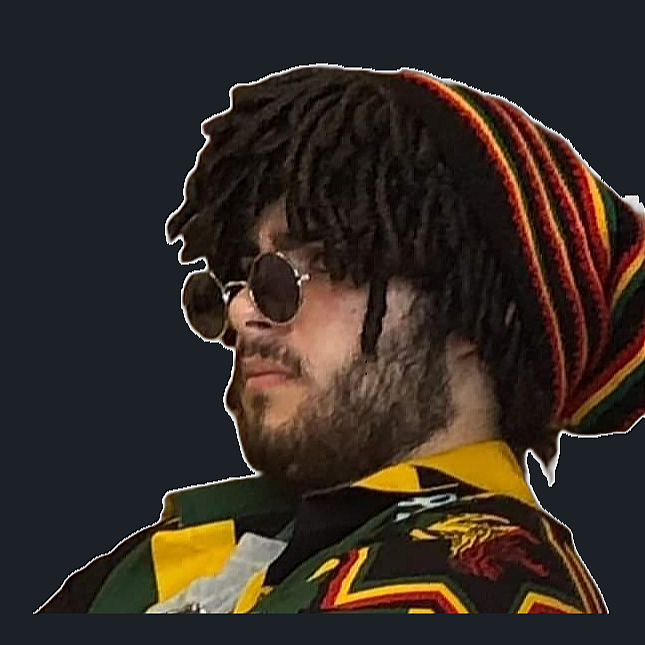
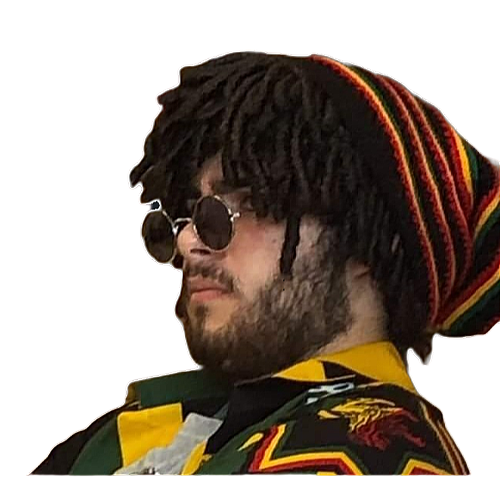
update

diff --git a/src/app/desktop/components/profile/ProfileHead.css b/src/app/desktop/components/profile/ProfileHead.css
@@ -3,4 +3,62 @@
     height: 235px;
     background-color: #163041;
     box-shadow: 0 4px 8px rgba(13, 28, 39, 0.5);
+    display: flex;
+    flex-direction: column;
+    justify-content: center;
+    align-items: center;
+}
+
+.profile-head-img {
+    width: 130px;
+    height: 130px;
+    display: flex;
+    justify-content: center;
+    align-items: center;
+}
+
+.profile-head-img img {
+    position: absolute;
+    width: 100px;
+    height: 100px;
+    border-radius: 50%;
+}
+
+.profile-head-img span {
+    position: absolute;
+    border: 2px solid #FFA500;
+    border-radius: 50%;
+}
+
+.profile-head-img #first {
+    width: 104px;
+    height: 104px;
+    border-top-color: transparent;
+    border-bottom-color: transparent;
+    animation: borderSpin 4s linear infinite;
+}
+
+.profile-head-img #second {
+    width: 117px;
+    height: 114px;
+    border-left-color: transparent;
+    border-right-color: transparent;
+    animation: borderSpin 6s linear reverse infinite;
+}
+
+.profile-head-img #third {
+    width: 130px;
+    height: 130px;
+    border-top-color: transparent;
+    border-bottom-color: transparent;
+    animation: borderSpin 8s linear infinite;
+}
+
+@keyframes borderSpin {
+    0% {
+        transform: rotate(0deg);
+    }
+    100% {
+        transform: rotate(360deg);
+    }
 }

diff --git a/src/app/desktop/components/profile/ProfileHead.tsx b/src/app/desktop/components/profile/ProfileHead.tsx
@@ -3,7 +3,12 @@ import "./ProfileHead.css"
 export default function ProfileHead() {
     return (
         <div className="profile-head">
-            <h1>Head</h1>
+            <div className="profile-head-img">
+                <img src="images/Me.png" alt="Me" />
+                <span id="first"></span>
+                <span id="second"></span>
+                <span id="third"></span>
+            </div>
         </div>
     );
 };
